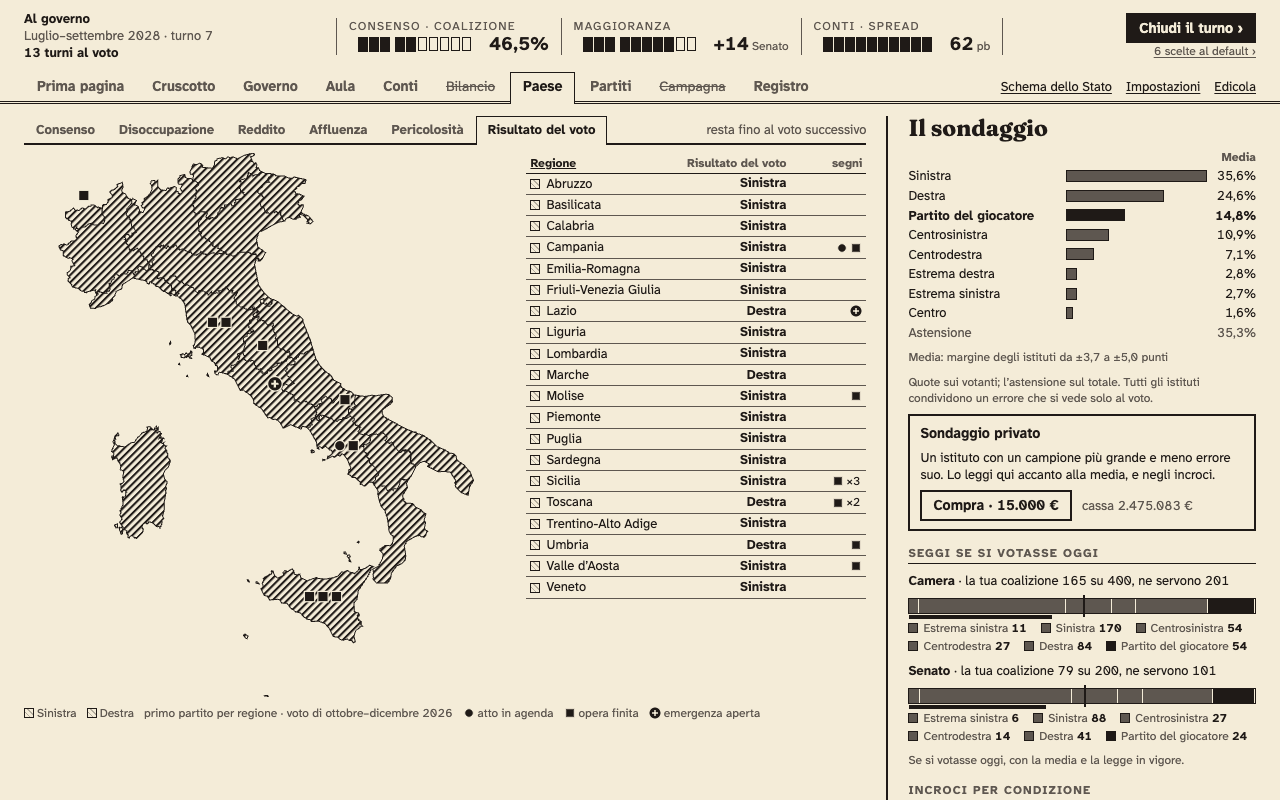
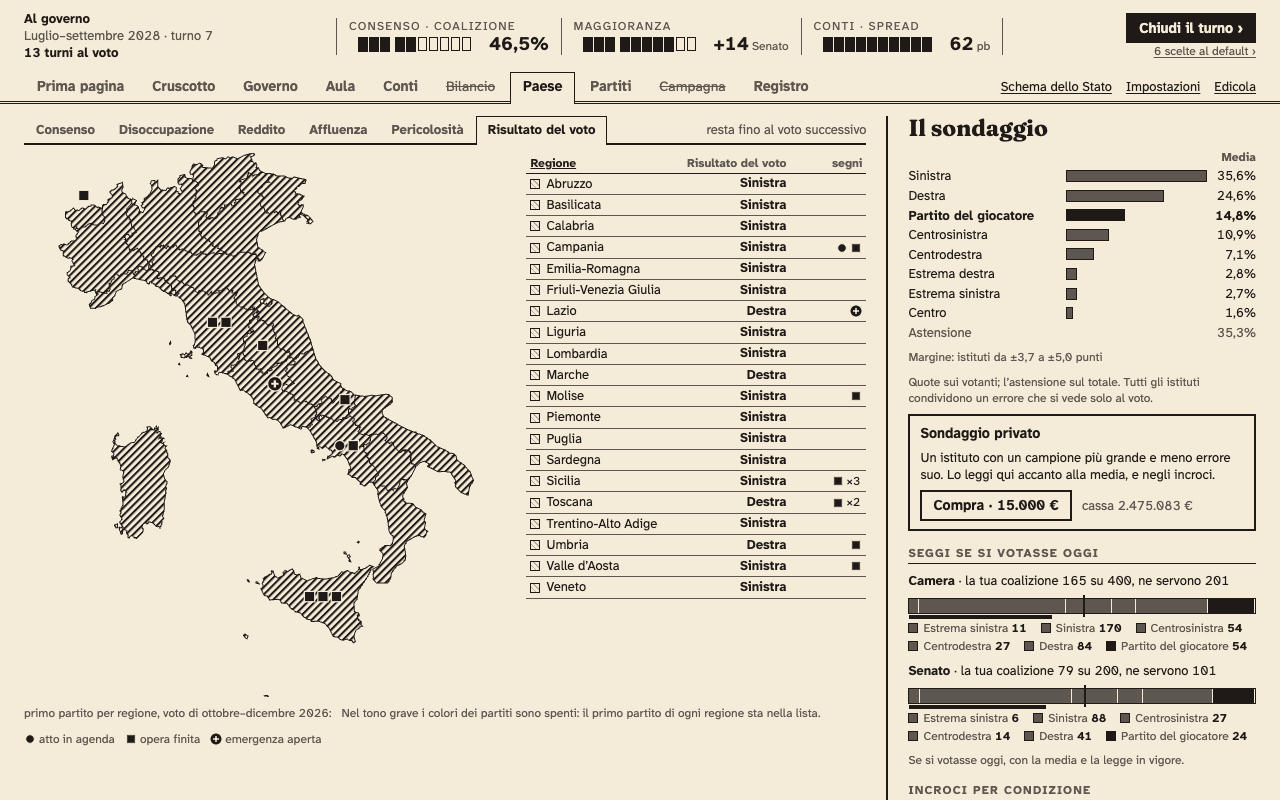
fix(app): Senato per partito, voto nel tono grave e testi del Paese

Changed region(s): [[0.0, 0.875, 0.625, 0.9375], [0.7188, 0.4375, 0.9062, 0.4688]]

diff --git a/app/src/lib/paese/paese.ts b/app/src/lib/paese/paese.ts
@@ -35,10 +35,14 @@ export function classi(valori: number[], l: Livello): { soglie: number[]; classe
   return { soglie, classe: (x) => soglie.filter((s) => x >= s).length as 0 | 1 | 2 | 3 | 4 };
 }
 
+/** Il tono grave spegne i colori dei partiti. */
+export const tonoGrave = (v: Vista): boolean => v.eventi.some((e) => e.tono === "grave");
+
 /** Il voto dell'ultima elezione per id di regione; null senza elezioni. */
-export function votoPerRegione(v: Vista): Record<string, { primo: string; voti: number[]; senato: number[] }> | null {
+export function votoPerRegione(v: Vista): Record<string, { primo: string; voti: number[]; senato: { partito: string; seggi: number }[] }> | null {
   const e = v.elezioni.at(-1);
-  return e ? Object.fromEntries(e.regioni.map((r) => [r.regione, { primo: r.primo, voti: r.voti, senato: r.seggi_senato }])) : null;
+  // voti e seggi_senato seguono l'ordine di `e.voti`, non quello di `v.partiti`: un partito nato o sciolto dopo il voto sposta gli indici
+  return e ? Object.fromEntries(e.regioni.map((r) => [r.regione, { primo: r.primo, voti: r.voti, senato: e.voti.map((x, i) => ({ partito: x.partito, seggi: r.seggi_senato[i] ?? 0 })) }])) : null;
 }
 
 const terzo = (x: number): Fascia => (x < 1 / 3 ? "bassa" : x < 2 / 3 ? "media" : "alta");
@@ -74,10 +78,10 @@ export function affluenzaPerRegione(v: Vista): Record<string, number | null> {
   return Object.fromEntries(v.sondaggio.regioni.map((r) => [r.id, r.quote.length ? 1 - r.quote[r.quote.length - 1] : null]));
 }
 
-/** «± 2,8 punti»: il margine dichiarato (una frazione) in punti percentuali. */
+/** «±2,8 punti»: il margine dichiarato (una frazione) in punti percentuali. */
 export const margineTesto = (m: number): string => t("paese.margine_punti", { m: numero(m * 100, 1) });
 
-/** I margini dichiarati degli istituti: «±m punti» se uno solo o tutti uguali, altrimenti l'intervallo (la media non è un numero del core). */
+/** I margini dichiarati degli istituti: «±m punti» se uno solo o tutti uguali, altrimenti «da ±a a ±b punti» (la media non è un numero del core). */
 export function margineIstituti(s: Sondaggio): string {
   if (!s.istituti.length) return "";
   const m = s.istituti.map((r) => numero(r.margine * 100, 1));

diff --git a/app/src/lib/paese/Paese.svelte b/app/src/lib/paese/Paese.svelte
@@ -11,7 +11,7 @@
   import type { Segno } from "$lib/mappa/Mappa.svelte";
   import SchedaRegione from "./SchedaRegione.svelte";
   import Sondaggio from "./Sondaggio.svelte";
-  import { LIVELLI, affluenzaPerRegione, classi, consensoPerRegione, lista, livelloManca, segniPerRegione, valoriDi, votoPerRegione, type Livello, type Pericolo } from "./paese";
+  import { LIVELLI, affluenzaPerRegione, classi, consensoPerRegione, lista, livelloManca, segniPerRegione, tonoGrave, valoriDi, votoPerRegione, type Livello, type Pericolo } from "./paese";
 
   let { vista }: { vista: Vista } = $props();
   const pre = $props.id();
@@ -45,7 +45,7 @@
   const presenti = $derived(righe.map((r) => r.valore).filter((x): x is number => x !== null));
   const scala = $derived(classi(presenti, livello));
   const classe = $derived(Object.fromEntries(righe.map((r) => [r.id, r.valore === null ? null : scala.classe(r.valore)])));
-  const grave = $derived(vista.eventi.some((e) => e.tono === "grave"));
+  const grave = $derived(tonoGrave(vista));
   // nel tono grave i partiti sono tutti grigi: il retino, e il nome in lista
   const colore = (id: string) => (grave ? null : coloreDi(id));
   const tinta = $derived(voto ? Object.fromEntries(Object.entries(voto).map(([id, r]) => [id, colore(r.primo)])) : undefined);
@@ -128,8 +128,9 @@
 
     <div class="legenda">
       {#if voto}
-        {#each primi as id (id)}<span class="sg"><i class="sw" style:background={colore(id) ?? RETINO}></i>{nomeDi(vista, id)}</span>{/each}
         <span>{t("paese.voto_legenda", { periodo: periodoDi(vista, vista.elezioni.at(-1)!.data) })}</span>
+        {#if grave}<span>{t("paese.voto_grave")}</span>
+        {:else}{#each primi as id (id)}<span class="sg"><i class="sw" style:background={coloreDi(id) ?? RETINO}></i>{nomeDi(vista, id)}</span>{/each}{/if}
       {:else if estremi && scala.soglie.length}
         <span class="cl">{#each [0, 1, 2, 3, 4] as c (c)}<i style:background="var(--classe-{c})"></i>{/each}</span>
         <span>{formato(estremi.min)} · {t("paese.fino_a", { x: formato(estremi.max) })}</span>

diff --git a/app/src/lib/paese/paese.test.ts b/app/src/lib/paese/paese.test.ts
@@ -68,6 +68,13 @@ describe("livelli del territorio", () => {
     expect(votoPerRegione(v)!.lombardia).toBeUndefined();
     expect(votoPerRegione(v)!.toscana).toBeDefined();
   });
+  it("votoPerRegione: i seggi del Senato seguono i partiti dell'elezione, non quelli della Vista", () => {
+    const e = governo.elezioni.at(-1)!;
+    const v = { ...governo, partiti: [{ ...governo.partiti[0], id: "nato" }, ...governo.partiti] } as Vista;
+    const r = e.regioni.find((x) => x.regione === "toscana")!;
+    expect(votoPerRegione(v)!.toscana.senato).toEqual(e.voti.map((x, i) => ({ partito: x.partito, seggi: r.seggi_senato[i] })));
+    expect(votoPerRegione(v)!.toscana.senato.find((x) => x.seggi)!.partito).toBe(e.voti[r.seggi_senato.findIndex((n) => n)].partito);
+  });
   it("votoPerRegione: l'ultima elezione, null senza", () => {
     expect(votoPerRegione(zero)).toBeNull();
     expect(votoPerRegione(governo)!.lombardia.primo).toBe(governo.elezioni.at(-1)!.regioni.find((r) => r.regione === "lombardia")!.primo);
@@ -93,14 +100,14 @@ describe("livelli del territorio", () => {
 });
 
 it("margineTesto: in punti, con la virgola", () => {
-  expect(margineTesto(0.0447)).toBe("± 4,5 punti");
+  expect(margineTesto(0.0447)).toBe("±4,5 punti");
 });
 
 it("margineIstituti: intervallo se diversi, un valore se uguali", () => {
   const con = (...m: number[]) => ({ istituti: m.map((margine) => ({ margine })) }) as never;
-  expect(margineIstituti(con(0.03, 0.05))).toBe("margine degli istituti da ±3,0 a ±5,0 punti");
-  expect(margineIstituti(con(0.044, 0.044))).toBe("± 4,4 punti");
-  expect(margineIstituti(con(0.044))).toBe("± 4,4 punti");
+  expect(margineIstituti(con(0.03, 0.05))).toBe("da ±3,0 a ±5,0 punti");
+  expect(margineIstituti(con(0.044, 0.044))).toBe("±4,4 punti");
+  expect(margineIstituti(con(0.044))).toBe("±4,4 punti");
   expect(margineIstituti(con())).toBe("");
 });
 

diff --git a/app/src/lib/paese/SchedaRegione.svelte b/app/src/lib/paese/SchedaRegione.svelte
@@ -14,7 +14,7 @@
   import Pulsante from "$lib/componenti/Pulsante.svelte";
   import Rifiuto from "$lib/componenti/Rifiuto.svelte";
   import BarreQuote from "./BarreQuote.svelte";
-  import { CONDIZIONI, FASCE, disposizioniDi, margineTesto, segniDi, sessioneElettori, sondaggioDi, sondaggioLetto, territorioDi, votoPerRegione, type EsitoElettori } from "./paese";
+  import { CONDIZIONI, FASCE, disposizioniDi, margineTesto, segniDi, sessioneElettori, sondaggioDi, sondaggioLetto, territorioDi, tonoGrave, votoPerRegione, type EsitoElettori } from "./paese";
 
   let { vista, regione, indietro }: { vista: Vista; regione: string; indietro: () => void } = $props();
 
@@ -26,6 +26,7 @@
   const territorio = $derived(territorioDi(vista, regione));
   const gruppi = $derived(vista.regioni.find((r) => r.id === regione)?.gruppi);
   const voto = $derived(votoPerRegione(vista)?.[regione]);
+  const grave = $derived(tonoGrave(vista));
   const dispo = $derived(disposizioniDi(vista, regione));
   const aulaAperta = $derived(barrata("aula", vista) === null);
 
@@ -102,7 +103,7 @@
 <h5 class="grp"><span>{t("paese.senato")}</span><span>{voto ? t("paese.senato_voto", { periodo: periodoDi(vista, vista.elezioni.at(-1)!.data) }) : t("paese.senato_nessuno")}</span></h5>
 {#if voto}
   <div class="legenda">
-    {#each vista.partiti as p, i (p.id)}{#if voto.senato[i]}<span class="sg"><i class="sw" style:background={coloreDi(p.id) ?? "var(--retino), var(--carta)"}></i>{p.nome} <b>{voto.senato[i]}</b></span>{/if}{/each}
+    {#each voto.senato.filter((x) => x.seggi) as x (x.partito)}<span class="sg">{#if !grave}<i class="sw" style:background={coloreDi(x.partito) ?? "var(--retino), var(--carta)"}></i>{/if}{nomeDi(vista, x.partito)} <b>{x.seggi}</b></span>{/each}
   </div>
   <p class="min muto">{t("paese.primo_partito", { nome: nomeDi(vista, voto.primo) })}</p>
 {:else}

diff --git a/app/src/lib/paese/Sondaggio.svelte b/app/src/lib/paese/Sondaggio.svelte
@@ -68,7 +68,7 @@
     <span class="q muto">{pc(pubblica.astensione)}</span>{#if privata}<span class="q priv muto">{pc(privata.astensione)}</span>{/if}
   </div>
   {#if margineIstituti(vista.sondaggio)}
-    <p class="min muto">{t("paese.col_media")}: {margineIstituti(vista.sondaggio)}{privata && margineIstituti(letto.sondaggio) ? ` · ${t("paese.col_privato")}: ${margineIstituti(letto.sondaggio)}` : ""}</p>
+    <p class="min muto">{t(privata ? "paese.margine_riga_priv" : "paese.margine_riga", { a: margineIstituti(vista.sondaggio), b: privata ? margineIstituti(letto.sondaggio) : "" })}</p>
   {/if}
   <p class="min muto">{t("paese.nota_quote")}</p>
 
